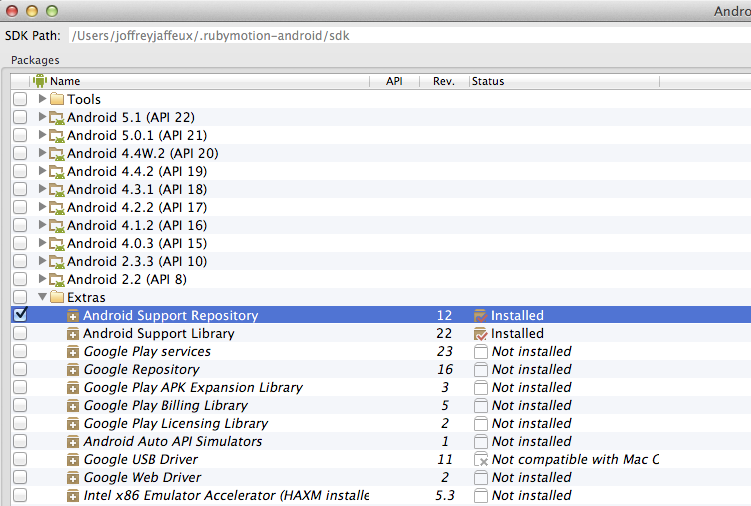
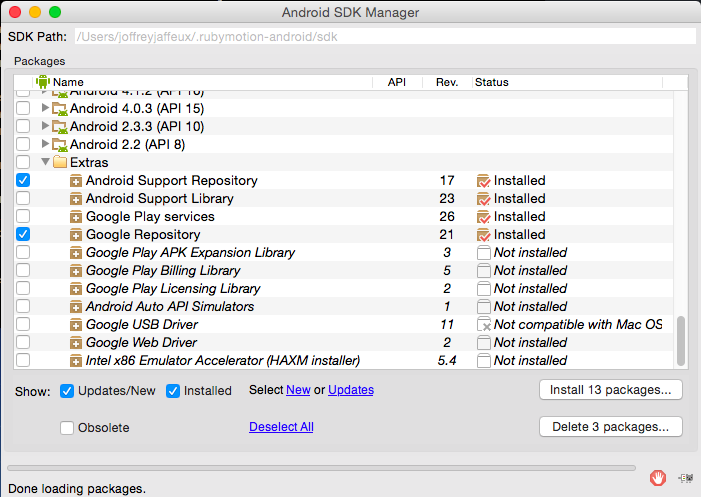
update Readme concerning repositories to install

diff --git a/README.md b/README.md
@@ -1,18 +1,18 @@
 # motion-gradle
 
-motion-gradle allows RubyMotion projects to integrate with 
+motion-gradle allows RubyMotion projects to integrate with
 [Gradle](https://gradle.org/) to manage your dependencies.
 
 
 ## Installation
 
-You need to have gradle installed: 
+You need to have gradle installed:
 
 ```
 $ brew install gradle
 ```
 
-And the gem installed: 
+And the gem installed:
 
 ```
 $ [sudo] gem install motion-gradle
@@ -24,7 +24,7 @@ Or if you use Bundler:
 gem 'motion-gradle'
 ```
 
-You also need to install `Extras/Android Support Repository` with the Android SDK Manager gui.
+You also need to install `Extras/Android Support Repository` and `Extras/Google Repository` with the Android SDK Manager gui.
 
 ![android-sdk-manager](https://raw.githubusercontent.com/jjaffeux/motion-gradle/master/images/android-sdk-manager.png)
 
